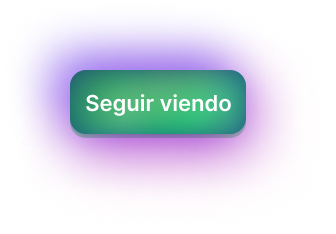
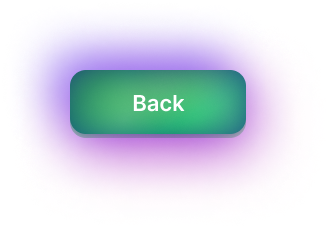
Actualizacion de estilos

Changed region(s): [[0.2381, 0.3889, 0.6845, 0.5085]]

diff --git a/Front_end/src/Components/Landing/Landing.jsx b/Front_end/src/Components/Landing/Landing.jsx
@@ -23,8 +23,8 @@ export const Landing=()=> {
        <div className={style.description}>
      
   <h1>New Season AW 24 50% off !!</h1>
-  <p>Esta es la tienda online de la marca WEARFASHION. Nuestro objetivo es extender el alcance del diseño de indumentaria urbana.</p>
-  <p >Te invitamos a explorar nuestro catálogo en línea y descubrir la última moda masculina y femenina que se adapte a tu estilo único. </p>
+  <p>This is the online store of the WEARFASHION brand. Our goal is to expand the scope of urban clothing design.</p>
+  <p>We invite you to explore our online catalog and discover the latest men's and women's fashion that suits your unique style.</p>
 <Link to='/about'><button className={style.learnMore}>Learn more</button></Link>
 
        </div>
@@ -42,16 +42,17 @@ export const Landing=()=> {
 <div className={style.card1}>
   <div className={style.imageCard}></div>
   <div className={style.descriptionCard}>
-    <h3>Title Card</h3>
-    <p>Lorem ipsum dolor sit amet consectetur adipisicing elit. Quisquam suscipit quaerat numquam facilis cum repellendus ex soluta accusamus quos omnis, distinctio tempora voluptas eos, expedita, quas possimus! Placeat, obcaecati nemo?</p>
+    <h3>Original design</h3>
+    <p>Ditch the derivative and embrace the distinctive. Our clothing isn't churned out by factories chasing trends. Each piece is an original design, meticulously crafted to flatter your form and reflect your unique style. You won't find these looks anywhere else – so go ahead, stand out from the crowd in confidence.</p>
     <Link to='/products'><button className={style.cardButton}>See more</button></Link>
   </div>
 
  </div>
  <div className={style.card2}>
  <div className={style.imageCard2}></div>
-  <div className={style.descriptionCard}>    <h3>Title Card</h3>
-    <p>Lorem ipsum dolor sit amet consectetur adipisicing elit. Quisquam suscipit quaerat numquam facilis cum repellendus ex soluta accusamus quos omnis, distinctio tempora voluptas eos, expedita, quas possimus! Placeat, obcaecati nemo?</p>
+  <div className={style.descriptionCard}>    <h3>Urban culture</h3>
+    <p>
+Craving clothes that capture the city's energy? Look no further. Our threads are designed for the urban jungle, blending comfort and edge for the nonstop life.  We focus on street-inspired style that's perfect for navigating the city sidewalks in confidence.  It's fashion with a pulse, made for those who rep the urban vibe.</p>
     <Link to='/products'><button className={style.cardButton}>See more</button></Link>
     </div>
  </div>

diff --git a/Front_end/src/Components/Detail/Detail.module.css b/Front_end/src/Components/Detail/Detail.module.css
@@ -62,7 +62,7 @@
 .texto2{
   position: absolute;
   z-index: 100;
-  top: 15%;
+  top: 18%;
   left: 2%;
   font-size: 2vw;
   font-family: f3;
@@ -102,28 +102,28 @@
 }
 .texto5{
   z-index: 100;
-  font-size: 6.5vw;
+  font-size: 6vw;
   font-family: f3;
   line-height: .5;
 }
 .box2{
-  background-color: rgba(39, 29, 222, 0.357);
-  height: 25%;
+  background-color: rgba(39, 29, 222, 0.183);
+  height: 17%;
   width: 25%;
   position: absolute;
   right: 22%;
   top: 33%;
   border-radius: 30px 5px 30px 5px;
   border: 2px solid rgba(0, 0, 0, 0.603);
-  transform: skew(-5deg);
-  line-height: 1.2;
-  font-size: 1.5vw;
+  line-height: 1;
+  font-size: 0.9vw;
   color: rgb(255, 255, 255);
+  text-align: left;
 }
 .difuminado2{
   height: 100%;
-  padding-top: 2%;
-  font-family: f1;
+  padding: 2% 4%;
+  font-family: Inter;
 }
 
 
@@ -141,15 +141,15 @@
 .boxDetalle{
   text-align: right;
   position: absolute;
-  top: 65%;
+  top: 57%;
   right: 4%;
   color: rgb(12, 6, 123);
-  font-size: 2vw;
+  font-size: 1.5vw;
   font-family: f4;
 }
 .detalle3{
   font-family: Inter, system-ui, Avenir, Helvetica, Arial, sans-serif;
-  font-size: 2.5vw;
+  font-size: 2vw;
 }
 .name{
   position: absolute;
@@ -160,12 +160,13 @@
   font-family: f3;
   text-align: left;
   text-shadow: 2px 2px 0px rgb(99, 167, 255);
+  font-size: 2.5vw;
 }
 .boton{
   position: absolute;
-  bottom: -5%;
+  bottom: 0;
   right: 50%;
-  height: 20%;
+  height: 18%;
   width: 30%;
   transform: translate(50%);
 }
@@ -195,7 +196,21 @@
   border-radius: 5px;
   transform: translate(50%);
 }
-
 .hover{
   background-color: black;
+}
+.buy{
+  position: absolute;
+  left: 10%;
+  bottom: 18%;
+}
+.buy button{
+  height: 5vh;
+  width: 7.5vw;
+  font-size: 1vw;
+  border-radius: 20px;
+  transition: all 0.3s ease-in-out; 
+}
+.buy button:hover{
+  box-shadow: 0px 0px 15px 15px rgb(122, 10, 227);
 }

diff --git a/Front_end/src/Components/Cart/Cart.jsx b/Front_end/src/Components/Cart/Cart.jsx
@@ -78,9 +78,9 @@ dispatch(getOrders())
     <div className={style.boxCart}>
       <div className={style.content} >
         {carrito.length ? (
-          <h3>Revisa tus compras!</h3>
+          <h3>Check your shopping</h3>
         ) : (
-          <p>No has seleccionado productos aún</p>
+          <p>You haven't selected any products yet</p>
         )}
         {carrito.map((item, i) => (
           <div className={style.cards} key={i}>
@@ -109,21 +109,21 @@ dispatch(getOrders())
               <span>Total: ${totalCompra}</span>
             </div>
             <form className={style.buttonsDiv} onSubmit={e=>handleSubmit(e)}  >
-              <button className={style.back} type='submit'>INICIAR COMPRA</button>
+              <button className={style.back} type='submit'>START SHOPING</button>
               <button className={style.vaciar} type="button" onClick={() => vaciarCarrito(carrito)}>
-                Vaciar Carrito
+                Empty cart
               </button>
             </form>
           </div>
         ) : (
     <div>          <button className={style.back}>
     <Link className={style.link} to="/products">
-      Ver productos disponibles
+      Check available products
     </Link>
   </button>
   <button className={style.orders}>
   <Link className={style.link} to="/orders">
-      Ver ordenes de compra
+      Check the bill
     </Link>
   </button></div>
         )}

diff --git a/Front_end/src/pages/Aboutpage/Aboutpage.jsx b/Front_end/src/pages/Aboutpage/Aboutpage.jsx
@@ -17,8 +17,8 @@ export const AboutPage = () => {
      
      <h1>THE SCIENCE BEHIND WEARFASHION</h1>
    
-     <p >La empresa WEARFASHION es una marca que surge al notar la demanda del mercado   por una mayor disponibilidad  de   ropa   urbana   para   jóvenes,   enfocándose principalmente en la combinación de tendencias del diseño actual.</p>
-   <p>El objetivo de este proyecto es hacer que nuestros clientes estén satisfechos con nuestro trabajo y que la imagen de nuestra marca inspire confianza, apuntando a desarrollar mejoras y cubrir necesidades que puedan surgir en el camino .</p>
+     <p >The WEARFASHION company is a brand that emerged after noticing the market demand for greater availability of urban clothing for young people, focusing mainly on the combination of current design trends.</p>
+   <p>The objective of this project is to ensure that our clients are satisfied with our work and that the image of our brand inspires confidence, aiming to develop improvements and cover needs that may arise along the way.</p>
 
    
           </div>

diff --git a/Front_end/src/Components/Detail/Detail.jsx b/Front_end/src/Components/Detail/Detail.jsx
@@ -97,15 +97,14 @@ function Detail(props) {
         
       
         <div className={style.boton}>
-
+          <div className={buttonClass ? style.boton_img : style.boton_img_hover }></div>
+          <div className={style.action} onMouseEnter={handleMouseEnter} onMouseLeave={handleMouseLeave} onClick={handleBackClick}></div>
+        </div>
         <div className={style.buy}>
           <button
           type="button"
           onClick={() => seleccionarProducto(product)}
-          >COMPRAR</button>
-        </div>
-          <div className={buttonClass ? style.boton_img : style.boton_img_hover }></div>
-          <div className={style.action} onMouseEnter={handleMouseEnter} onMouseLeave={handleMouseLeave} onClick={handleBackClick}></div>
+          >Add to cart</button>
         </div>
       </div>
     </div>

diff --git a/Front_end/src/Components/Cart/Cart.module.css b/Front_end/src/Components/Cart/Cart.module.css
@@ -38,6 +38,7 @@
     /* background-color: tomato; */
     height: 100%;
     border-right: 1px solid gray;
+    padding-right: 5%;
 }
 .count{
     display: flex;
@@ -174,5 +175,9 @@ background-color: rgba(255, 255, 255, 0.349);;
     background-color: rgba(0, 0, 0, 0.307);
     border-radius: 2em;
     margin-left: 1%;
+}
+
+.buttons{
+    color: black;
 }
 

diff --git a/Front_end/src/Components/Products/Products.jsx b/Front_end/src/Components/Products/Products.jsx
@@ -1,5 +1,5 @@
 import style from './Products.module.css'
-import imagen from '../../assets/Imagenes/Products_fondo_aplicar.png'
+import imagen from '../../assets/Imagenes/Products_fondo2_aplicar.png'
 import { getAllProducts } from "../../redux/actions/actions";
 import { useDispatch } from "react-redux";
 import { useEffect } from 'react';

diff --git a/Front_end/src/Components/Landing/Landing.module.css b/Front_end/src/Components/Landing/Landing.module.css
@@ -111,6 +111,7 @@
     display: flex;
     flex-direction: column;
     align-items: center;
+    text-align: left;
 }
 
 .imageCard{

diff --git a/Front_end/src/Components/Cart/ItemCount.module.css b/Front_end/src/Components/Cart/ItemCount.module.css
@@ -29,3 +29,6 @@
   margin: auto;
 }
 
+.buttons button{
+    color: black;
+}
